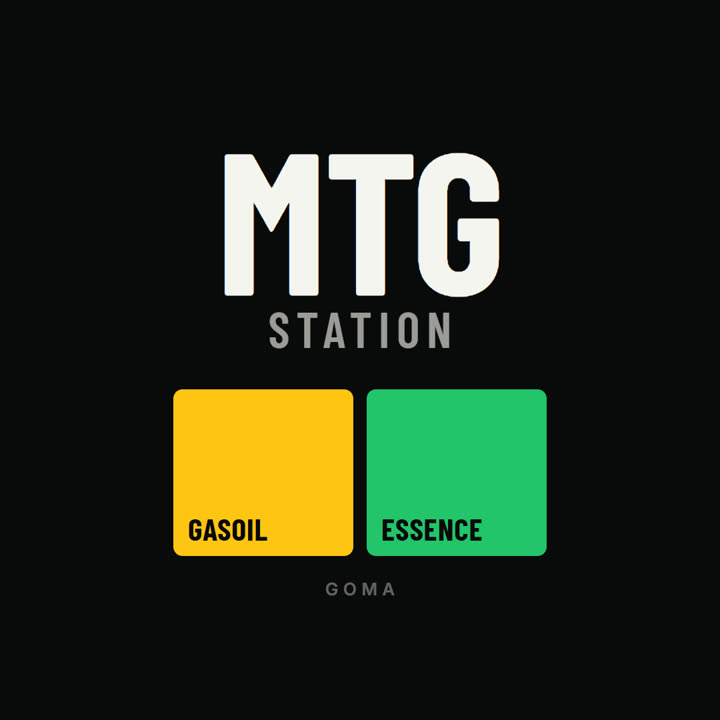
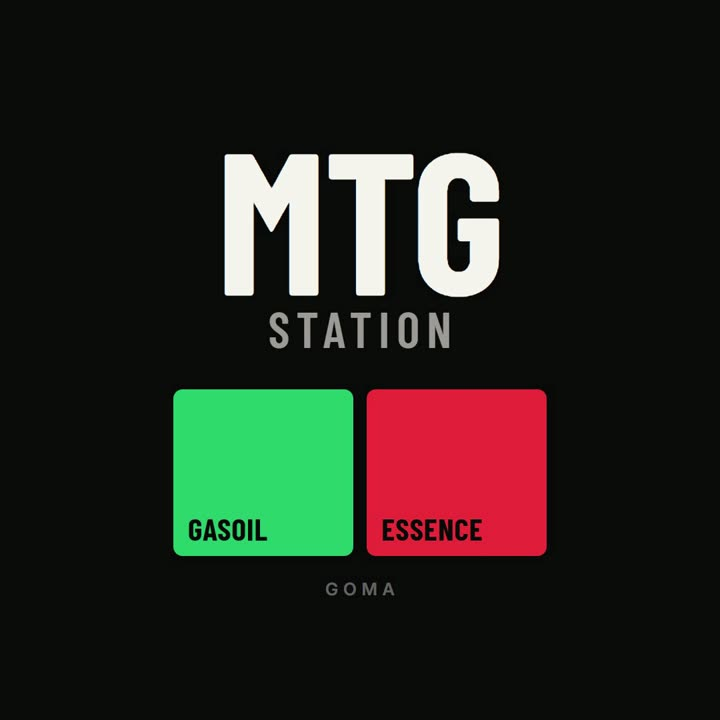
Film de marque rendu (gasoil vert, essence rouge) et couleurs carburant de l'application
Film HyperFrames rendu (6 s, 1080 px) puis encodé pour le web : WebM 35 Ko, MP4 31 Ko.
L'image fixe reste en fond tant que la vidéo ne joue pas réellement.
Gasoil vert, essence rouge dans les deux modes ; double filet sous « Alertes » corrigé ;
fiche de direction impeccable mise à jour pour « Totem de nuit ».

Changed region(s): [[0.2139, 0.5194, 0.7639, 0.7944]]

diff --git a/public/css/app.css b/public/css/app.css
@@ -1,7 +1,7 @@
 /* =====================================================================
    MTG Station — « Totem de nuit »
    The forecourt at night: black ground, porcelain type, the price totem lit up.
-   Gasoil yellow and essence green own their fields; actions are white slabs.
+   Gasoil green and essence red own their fields; actions are white slabs.
    ===================================================================== */
 
 /* Inter, served by the station itself (no third-party request on weak networks) */
@@ -34,7 +34,7 @@
   color-scheme: dark;
 
   /* The forecourt at night: black ground, porcelain type, the price totem lit up.
-     Each fuel owns a colour field (gasoil yellow, essence green); actions are white. */
+     Each fuel owns a colour field (gasoil green, essence red); the brand is lit yellow; actions are white. */
 
   /* Grounds */
   --bg: #0a0a0b;
@@ -67,8 +67,8 @@
   --brand: #ffc414;
 
   /* Fuels */
-  --gasoil: #ffc414;
-  --essence: #23c46b;
+  --gasoil: #23c46b;
+  --essence: #f0313a;
   --on-fuel: #0a0a0b;
 
   /* Status: fills (dots, switches) and text (readable in the sun) */
@@ -153,8 +153,8 @@
   --on-accent: #ffffff;
   --focus: rgba(200, 140, 0, 0.5);
   --brand: #e0a800;
-  --gasoil: #ffc414;
-  --essence: #1fb862;
+  --gasoil: #1fb862;
+  --essence: #e0262f;
   --green: #17a35a;
   --red: #d92d20;
   --orange: #d9650a;
@@ -217,7 +217,7 @@ a:hover { text-decoration: underline; }
 * { scrollbar-width: thin; scrollbar-color: var(--fill) transparent; }
 
 /* ---------- Shell: side rail (wide screens), top bar + tab bar (phones) ---------- */
-.shell { min-height: 100vh; min-height: 100dvh; display: grid; grid-template-columns: var(--side-w) minmax(0, 1fr); }
+.shell { min-height: 100vh; min-height: 100dvh; display: grid; grid-template-columns: var(--side-w) minmax(0, 1fr); background: linear-gradient(to right, var(--surface-2) calc(var(--side-w) - 1px), var(--hairline) 0, var(--hairline) var(--side-w), transparent 0); }
 .shell-main { min-width: 0; }
 .main { padding: 0 44px 72px; }
 .page-slot { view-transition-name: page; }
@@ -536,6 +536,7 @@ a:hover { text-decoration: underline; }
 .alert-list { display: flex; flex-direction: column; }
 .alert-item { display: flex; align-items: center; gap: 14px; padding: 14px 0; border-top: 1px solid var(--hairline); color: var(--text); }
 .alert-item:first-child { border-top: none; padding-top: 0; }
+.card-header + .alert-item { border-top: none; padding-top: 0; }
 .alert-item:hover { text-decoration: none; }
 .alert-item:hover .alert-text { color: var(--link); }
 .alert-icon { display: grid; place-items: center; width: 32px; height: 32px; border-radius: 50%; flex: none; color: #fff; }
@@ -907,8 +908,9 @@ dialog.action-dialog { margin: 0; width: 100vw; max-width: 100vw; height: 100%; 
 
 /* ---------- Auth screens: the brand film beside the form ---------- */
 .auth { min-height: 100vh; min-height: 100dvh; display: grid; grid-template-columns: minmax(0, 1.05fr) minmax(0, 1fr); background: var(--bg); }
-.auth-film { position: relative; overflow: hidden; background: #0a0a0b; }
-.auth-video { position: absolute; inset: 0; width: 100%; height: 100%; object-fit: cover; }
+.auth-film { position: relative; overflow: hidden; background: #0a0a0b url('/media/mtg-totem-poster.jpg') center / cover no-repeat; }
+.auth-video { position: absolute; inset: 0; width: 100%; height: 100%; object-fit: cover; opacity: 0; transition: opacity 0.6s var(--ease-out); }
+.auth-video.is-playing { opacity: 1; }
 .auth-pane { display: grid; place-items: center; padding: 56px 44px; }
 .auth-card { width: min(420px, 100%); animation: fade-up 0.8s var(--ease) both; }
 .auth-card .brand-mark { display: none; }
@@ -1084,7 +1086,7 @@ html[data-nav='fade']::view-transition-new(page) { animation: fade-up 0.5s var(-
 
 /* Phones and small tablets: the rail folds into a top bar and a tab bar. */
 @media (max-width: 1023px) {
-  .shell { display: block; }
+  .shell { display: block; background: none; }
   .side { display: none; }
   .topbar { display: flex; }
   .shell.has-tabs .tabbar { display: grid; }

diff --git a/public/js/views/auth.js b/public/js/views/auth.js
@@ -8,14 +8,19 @@ import { brandMark } from '../icons.js';
 function filmPanel() {
   const video = h(
     'video',
-    { class: 'auth-video', muted: true, playsinline: true, loop: true, preload: 'metadata', poster: '/media/mtg-totem-poster.jpg', 'aria-hidden': 'true', tabindex: '-1' },
+    { class: 'auth-video', muted: true, playsinline: true, loop: true, preload: 'auto', poster: '/media/mtg-totem-poster.jpg', 'aria-hidden': 'true', tabindex: '-1' },
     h('source', { src: '/media/mtg-totem.webm', type: 'video/webm' }),
     h('source', { src: '/media/mtg-totem.mp4', type: 'video/mp4' }),
   );
   video.muted = true;
+  // The poster is the panel's background: the video only fades in once it really plays,
+  // so a blocked autoplay never leaves a black first frame on screen.
+  video.addEventListener('playing', () => video.classList.add('is-playing'));
+  video.addEventListener('pause', () => video.classList.remove('is-playing'));
   if (!matchMedia('(prefers-reduced-motion: reduce)').matches) {
     video.autoplay = true;
-    video.play?.().catch(() => {});
+    // Ask again once data is there: a play() before the panel is in the page can be dropped.
+    video.addEventListener('canplay', () => video.play?.().catch(() => {}), { once: true });
   }
   return h('div', { class: 'auth-film' }, video);
 }

diff --git a/videos/mtg-totem-sting/index.html b/videos/mtg-totem-sting/index.html
@@ -28,8 +28,8 @@
         --porcelain: #f5f4ef;
         --porcelain-2: rgba(245, 244, 239, 0.62);
         --porcelain-3: rgba(245, 244, 239, 0.38);
-        --gasoil: #ffc414;
-        --essence: #23c46b;
+        --gasoil: #23c46b;
+        --essence: #f0313a;
         --ink: #0a0a0b;
       }
 

diff --git a/.impeccable/surfaces/public-index-html.md b/.impeccable/surfaces/public-index-html.md
@@ -5,22 +5,22 @@ primary_target: "public/index.html"
 related_targets: []
 ---
 
-# Surface: application shell (all screens)
+# Surface: application shell (all screens: gérant, pompiste, client)
 
-Mode: Operate. Redesign: the apple.com world is replaced by "Midnight Line", pinned by the user as "luxe sombre et premium".
+Mode: Operate. Replacement world "Totem de nuit", rebuilt 2026-10-04 after the user rejected "Midnight Line" as a recolour of the apple.com layout ("change tout"). User pins: luxe sombre et premium; gasoil = vert, essence = rouge; design through the impeccable skill.
 
 ## Direction contract
 
-THESIS: MTG Station is a midnight-blue enamel board with porcelain type: premium, calm, readable. It refuses the light-grey Apple tile look and the neon-on-black dashboard.
+THESIS: the app is the station's price totem at night: black ground, figures in condensed bold, one colour field per fuel. It refuses the apple.com tile grid and the centred top-nav it replaced.
 
-OWN-WORLD: ground #070e1b, lacquered navy panels #0f1b2f with a 1px porcelain hairline and no resting shadow, porcelain text #f4f1ea, one amber action ink #f2b134 with dark text, a line colour per product (gasoil cobalt, essence coral), status green/red/orange always with a word. Inter throughout, tight tracking, tabular figures. A day mode (white enamel, darker amber) for full sun.
+OWN-WORLD: ground #0a0a0b, panels #141416 ruled by a 1px porcelain hairline (no resting shadow), porcelain text #f5f4ef, gasoil field #23c46b, essence field #f0313a, both with black text, brand yellow #ffc414 for the drop, the active nav icon and the shift line, white rectangular action slabs (10px radius). Barlow Condensed for names and figures, Inter for reading. Day mode with the same roles for full sun.
 
-STORY: the attendant sees at a glance where the shift stands and records a sale in a few taps; the manager reads credit, combos and stock on one board.
+STORY: everyone sees today's prices first; the attendant knows where the shift stands and records a sale in a few taps; the manager reads sales, credit and stock on one ruled board.
 
-FIRST VIEWPORT: dark header with the amber drop, one big semibold headline with grey subhead, then the shift line (four stops: Ouverture, Ventes, Clôture, Validation), then the amber primary quick action beside two quiet panels.
+FIRST VIEWPORT: wide screens: 252px side rail (brand, icon nav, account at the foot), condensed 64px headline ruled off from content, the price totem (one colour field per fuel, 84px price), then one ruled band of figures. Phones: top bar with the page name, the same totem in two columns, bottom tab bar (four tabs + Plus).
 
-SIGNATURE: the shift line, a transit line with four stops; the current stop burns, past stops are filled amber. Motion: numbers count in, tank gauges rise with one sheen, a drawn check and ripple confirm a balanced till.
+SIGNATURE: the price totem: fields fill from the bottom like a tank, prices count up, one sheen crosses them. Also the four-stop shift line, forms as drawers from the right, and the HyperFrames brand film on the split sign-in screen.
 
-FORM: user-pinned dark luxury, fused with the midnight transit diagram (catalog challenger, seed 083e3a8b); the roll was superseded by the user's pin.
+FORM: user-pinned dark luxury fused with the station price totem (forecourt pylon), roll seed 083e3a8b superseded by the pin.
 
 FINISH: unreviewed and undocumented is unfinished; this build ends with the finish review, the verdict, DESIGN.md, and every shipping raster carrying its provenance
